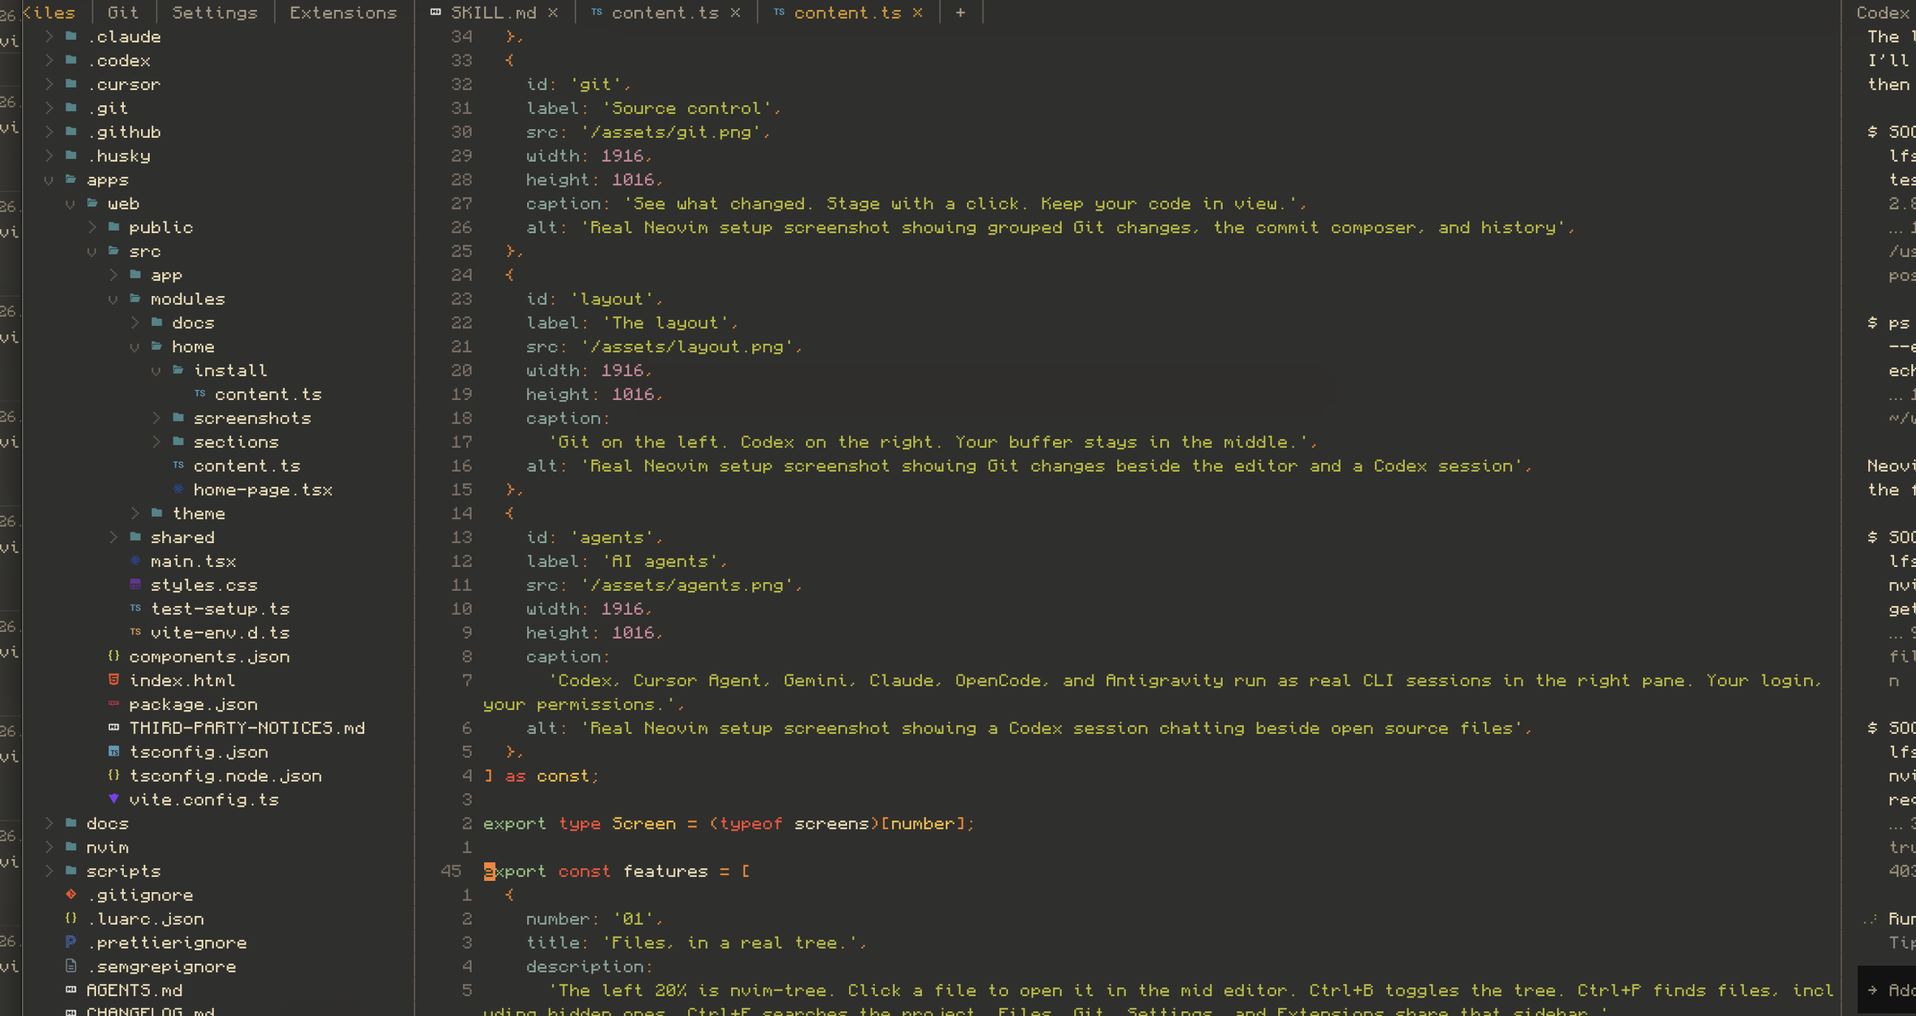
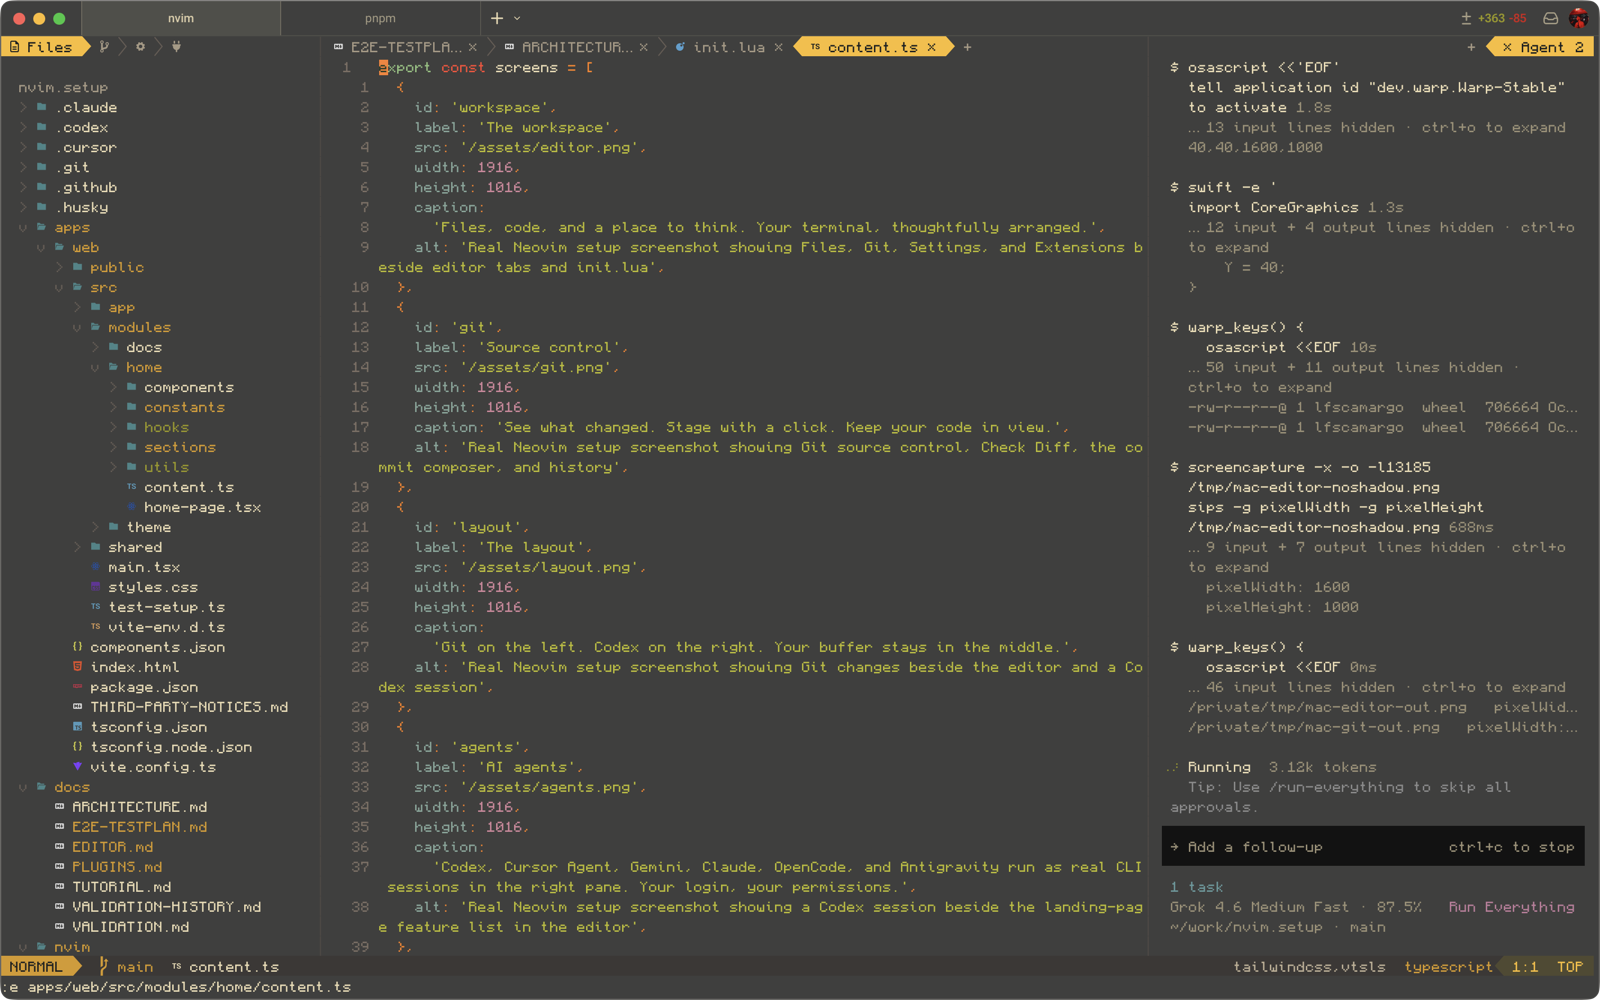
feat(web): photograph the v1.1 workspace at 16:10
Capture the full Warp window at Mac proportions so the landing page shows
the current tab bar, project name, and three-pane layout.

diff --git a/apps/web/src/modules/home/content.ts b/apps/web/src/modules/home/content.ts
@@ -3,8 +3,8 @@ export const screens = [
     id: 'workspace',
     label: 'The workspace',
     src: '/assets/editor.png',
-    width: 1916,
-    height: 1016,
+    width: 1600,
+    height: 1000,
     caption:
       'Files, code, and a place to think. Your terminal, thoughtfully arranged.',
     alt: 'Real Neovim setup screenshot showing Files, Git, Settings, and Extensions beside editor tabs and init.lua',
@@ -13,8 +13,8 @@ export const screens = [
     id: 'git',
     label: 'Source control',
     src: '/assets/git.png',
-    width: 1916,
-    height: 1016,
+    width: 1600,
+    height: 1000,
     caption: 'See what changed. Stage with a click. Keep your code in view.',
     alt: 'Real Neovim setup screenshot showing Git source control, Check Diff, the commit composer, and history',
   },
@@ -22,8 +22,8 @@ export const screens = [
     id: 'layout',
     label: 'The layout',
     src: '/assets/layout.png',
-    width: 1916,
-    height: 1016,
+    width: 1600,
+    height: 1000,
     caption:
       'Git on the left. Codex on the right. Your buffer stays in the middle.',
     alt: 'Real Neovim setup screenshot showing Git changes beside the editor and a Codex session',
@@ -32,8 +32,8 @@ export const screens = [
     id: 'agents',
     label: 'AI agents',
     src: '/assets/agents.png',
-    width: 1916,
-    height: 1016,
+    width: 1600,
+    height: 1000,
     caption:
       'Codex, Cursor Agent, Gemini, Claude, OpenCode, and Antigravity run as real CLI sessions in the right pane. Your login, your permissions.',
     alt: 'Real Neovim setup screenshot showing a Codex session beside the landing-page feature list in the editor',

diff --git a/apps/web/public/assets/SCREENSHOTS.md b/apps/web/public/assets/SCREENSHOTS.md
@@ -1,7 +1,7 @@
 # Application screenshots
 
-`editor.png`, `git.png`, `layout.png`, and `agents.png` are photographs of the actual Neovim setup running in Warp on this repository, taken on 2026-10-31. Each image is 1916 × 1016 after cropping away macOS and Warp window chrome so the site's screenshot frame is not doubled.
+`editor.png`, `git.png`, `layout.png`, and `agents.png` are photographs of the actual Neovim setup running in Warp on this repository, taken on 2026-10-31. Each image is 1600 × 1000 (16:10, a Mac display proportion) and shows the full Warp window.
 
-The Files view shows the nvim-tree sidebar (Files / Git / Settings / Extensions), editor tabs, and `nvim/init.lua`. The Git view shows source control with Check Diff, the commit composer, and history beside open buffers. The layout view is the same three-pane arrangement: Git, the mid editor, and Codex. The AI agents view shows a live Codex session beside `apps/web/src/modules/home/content.ts`. No mockups or generated pictures.
+The Files view shows the nvim-tree sidebar (project name, then Files / Git / Settings / Extensions), editor tabs, and `nvim/init.lua`. The Git view shows source control with Check Diff, the commit composer, and history beside open buffers. The layout view is the same three-pane arrangement: Git, the mid editor, and chat. The AI agents view shows a live session beside `apps/web/src/modules/home/content.ts`. No mockups or generated pictures.
 
 These captures include the real chat CLIs. No credentials are in the frames.
